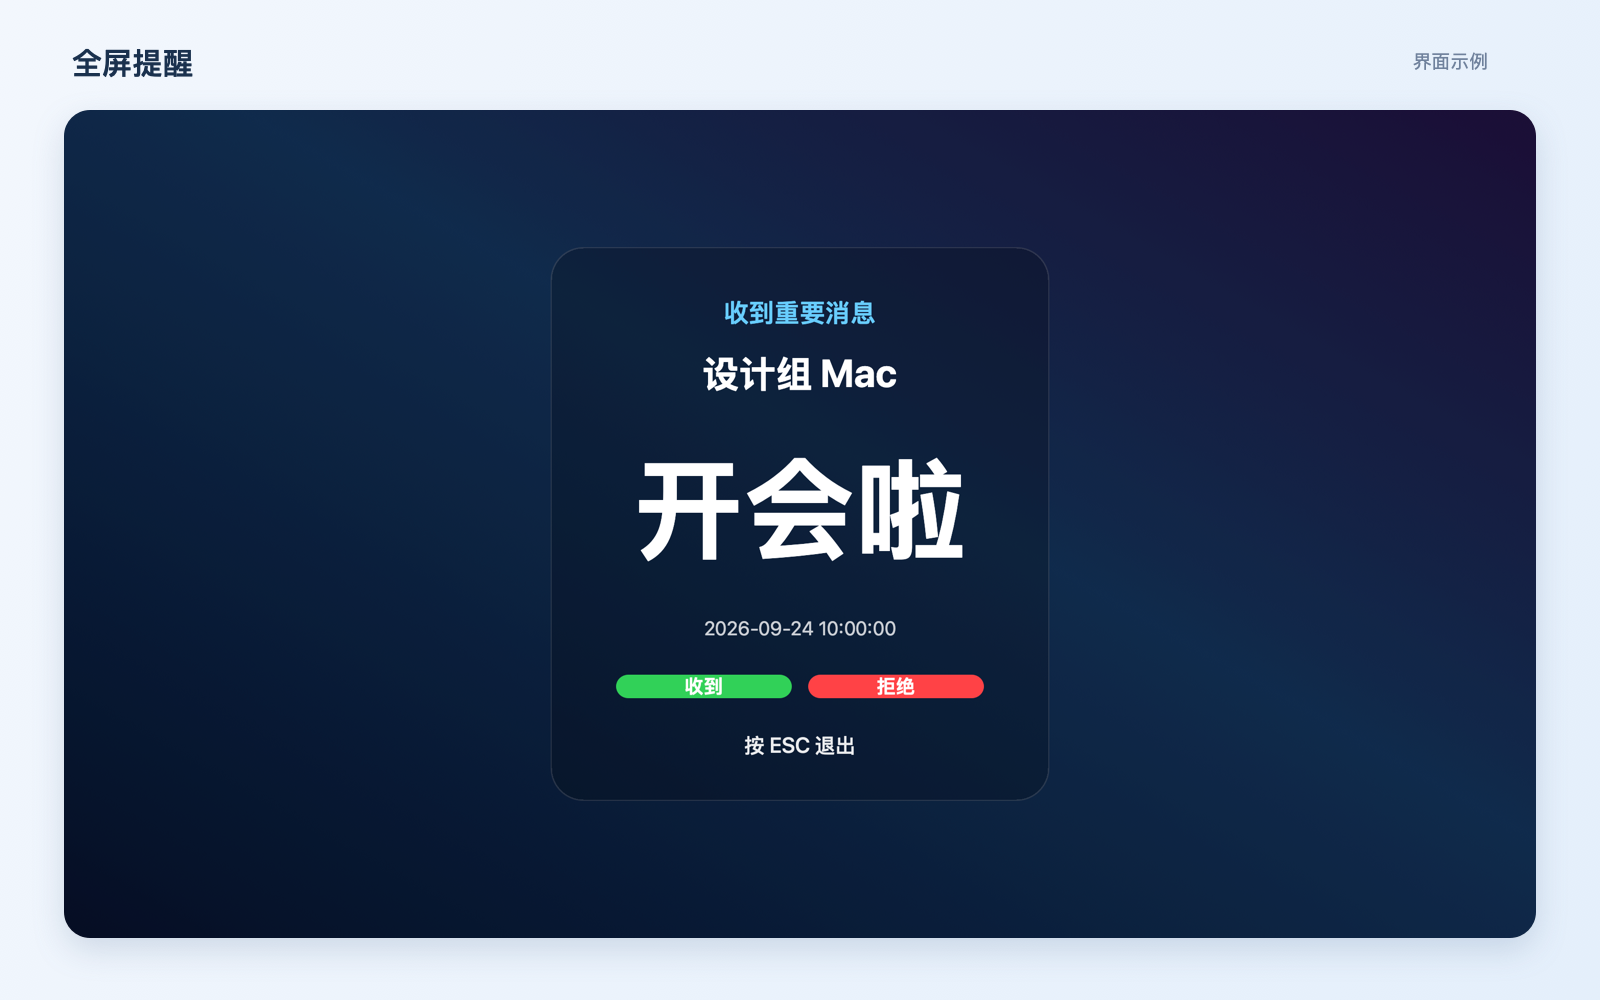
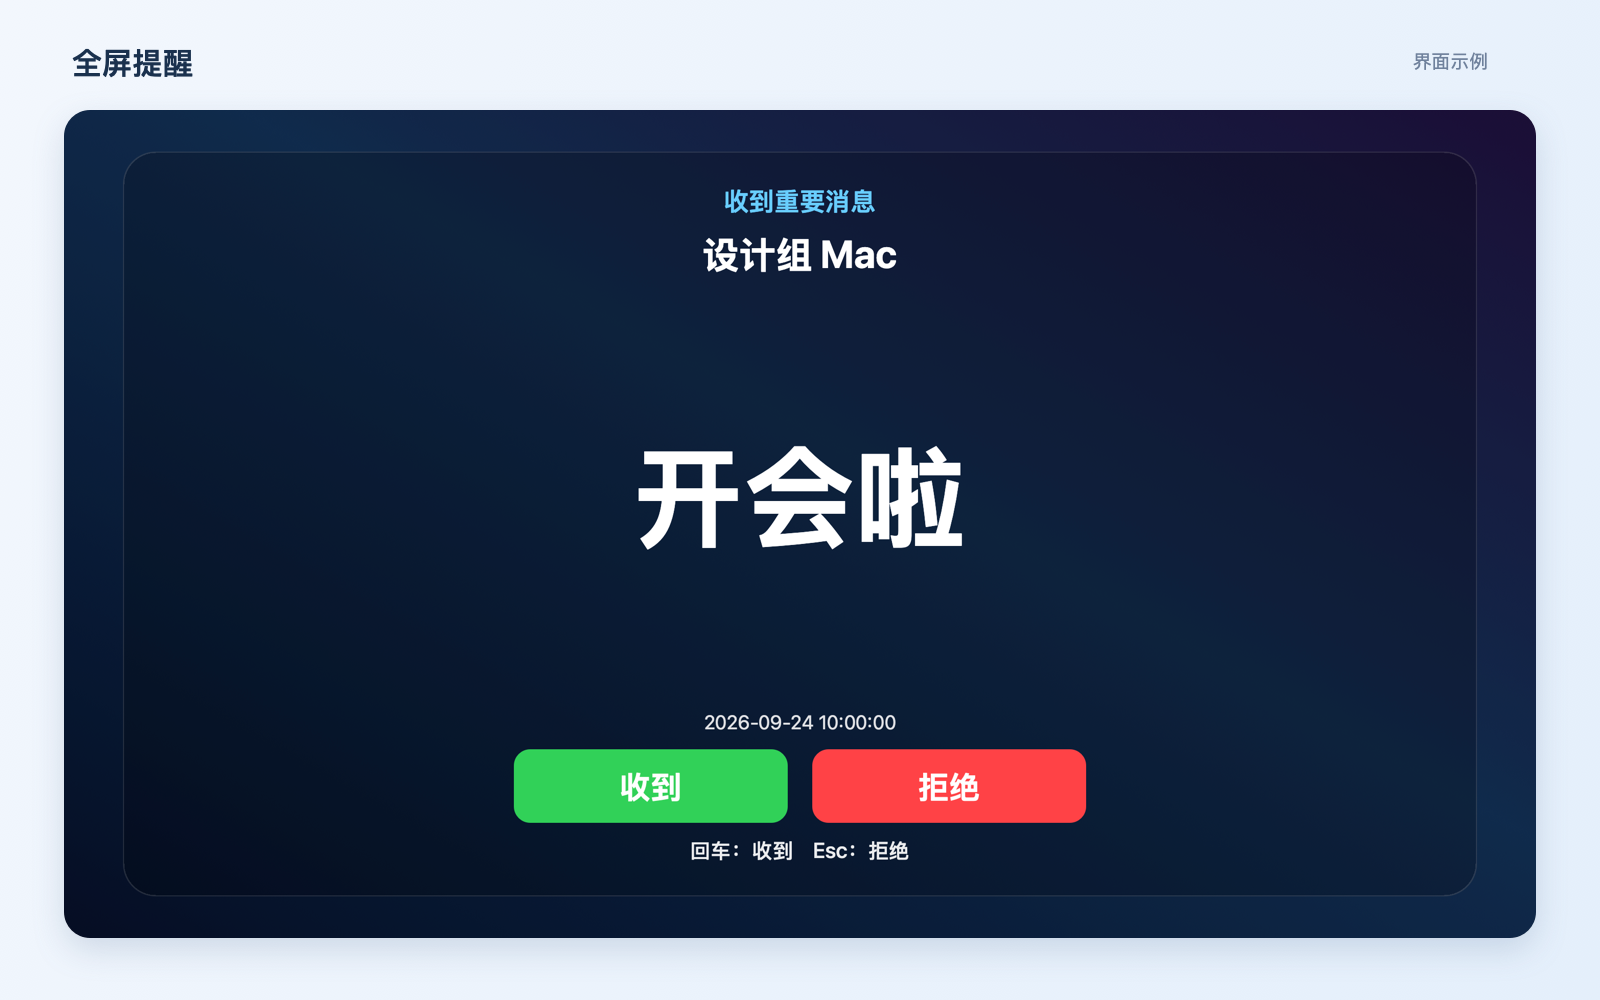
Enlarge fullscreen alerts and map Return/Escape to responses

Changed region(s): [[0.3125, 0.62, 0.6875, 0.868], [0.375, 0.434, 0.625, 0.558], [0.4375, 0.186, 0.5625, 0.403]]

diff --git a/Sources/FullScreenAlert.swift b/Sources/FullScreenAlert.swift
@@ -42,13 +42,22 @@ private final class AlertBackgroundView: NSView {
 }
 
 private final class AlertWindow: NSWindow {
-    var onEscape: (() -> Void)?
+    var onResponse: ((Bool) -> Void)?
     override var canBecomeKey: Bool { true }
     override var canBecomeMain: Bool { true }
-    override func cancelOperation(_ sender: Any?) { onEscape?() }
+    override func cancelOperation(_ sender: Any?) { onResponse?(false) }
+    private func handleResponseKey(_ event: NSEvent) -> Bool {
+        guard event.modifierFlags.intersection([.command, .control, .option, .shift]).isEmpty,
+              [36, 76, 53].contains(event.keyCode) else { return false }
+        // Holding a key must not process another message after this one closes.
+        if !event.isARepeat { onResponse?(event.keyCode != 53) }
+        return true
+    }
+    override func performKeyEquivalent(with event: NSEvent) -> Bool {
+        handleResponseKey(event) || super.performKeyEquivalent(with: event)
+    }
     override func keyDown(with event: NSEvent) {
-        if event.keyCode == 53 { onEscape?() }
-        else { super.keyDown(with: event) }
+        if !handleResponseKey(event) { super.keyDown(with: event) }
     }
 }
 
@@ -63,7 +72,7 @@ private final class ResponseButton: NSButton {
         self.action = action
         isBordered = false
         focusRingType = .none
-        font = .systemFont(ofSize: 19, weight: .bold)
+        font = .systemFont(ofSize: 32, weight: .bold)
         attributedTitle = NSAttributedString(
             string: title,
             attributes: [
@@ -78,7 +87,7 @@ private final class ResponseButton: NSButton {
     override func draw(_ dirtyRect: NSRect) {
         let color = isHighlighted ? fillColor.blended(withFraction: 0.18, of: .black) ?? fillColor : fillColor
         color.setFill()
-        NSBezierPath(roundedRect: bounds, xRadius: 12, yRadius: 12).fill()
+        NSBezierPath(roundedRect: bounds, xRadius: 16, yRadius: 16).fill()
 
         let textSize = attributedTitle.size()
         attributedTitle.draw(at: NSPoint(
@@ -93,26 +102,23 @@ final class FullScreenAlertController: NSWindowController {
     private var backgrounds: [AlertBackgroundView] = []
     private var messagePanels: [NSView] = []
     private let responseHandler: (Bool) -> Void
-    private let dismissHandler: (() -> Void)?
     private var hasFinished = false
 
-    init?(message: WireMessage, responseHandler: @escaping (Bool) -> Void,
-          dismissHandler: (() -> Void)? = nil) {
+    init?(message: WireMessage, responseHandler: @escaping (Bool) -> Void) {
         precondition(Thread.isMainThread)
         let screens = NSScreen.screens
         guard let firstScreen = screens.first else { return nil }
         let primaryScreen = NSScreen.main ?? firstScreen
         self.responseHandler = responseHandler
-        self.dismissHandler = dismissHandler
         let primaryWindow = Self.makeWindow(for: primaryScreen)
         super.init(window: primaryWindow)
 
         screenWindows = [primaryWindow]
-        primaryWindow.onEscape = { [weak self] in self?.dismiss() }
+        primaryWindow.onResponse = { [weak self] in self?.finish(response: $0) }
         configure(primaryWindow, message: message)
         for screen in screens where screen !== primaryScreen {
             let extraWindow = Self.makeWindow(for: screen)
-            extraWindow.onEscape = { [weak self] in self?.dismiss() }
+            extraWindow.onResponse = { [weak self] in self?.finish(response: $0) }
             screenWindows.append(extraWindow)
             configure(extraWindow, message: message)
         }
@@ -133,6 +139,11 @@ final class FullScreenAlertController: NSWindowController {
     }
 
     private func configure(_ window: NSWindow, message: WireMessage) {
+        let panelSize = NSSize(width: window.frame.width * 0.92, height: window.frame.height * 0.90)
+        let horizontalPadding = min(56, max(24, window.frame.width * 0.035))
+        let verticalPadding = min(40, max(24, window.frame.height * 0.04))
+        let spacing = min(22, max(12, window.frame.height * 0.018))
+        let textWidth = panelSize.width - 2 * horizontalPadding
         let content = AlertBackgroundView()
         window.contentView = content
         backgrounds.append(content)
@@ -160,12 +171,13 @@ final class FullScreenAlertController: NSWindowController {
         sender.font = .systemFont(ofSize: 38, weight: .bold)
         sender.textColor = .white
         sender.alignment = .center
+        sender.lineBreakMode = .byTruncatingTail
 
         let body = NSTextField(wrappingLabelWithString: message.text)
-        body.font = .systemFont(ofSize: Self.messageFontSize(for: message.text, in: window.frame.size), weight: .bold)
         body.textColor = .white
         body.alignment = .center
         body.maximumNumberOfLines = 0
+        body.preferredMaxLayoutWidth = textWidth
         body.lineBreakMode = .byWordWrapping
         body.wantsLayer = true
         body.layer?.shadowColor = NSColor.systemBlue.cgColor
@@ -177,42 +189,60 @@ final class FullScreenAlertController: NSWindowController {
         formatter.dateFormat = "yyyy-MM-dd HH:mm:ss"
         let time = NSTextField(labelWithString: formatter.string(from: message.sentAt))
         time.font = .systemFont(ofSize: 19)
-        time.textColor = .secondaryLabelColor
+        time.textColor = NSColor.white.withAlphaComponent(0.65)
         time.alignment = .center
 
-        let hint = NSTextField(labelWithString: "按 ESC 退出")
+        let hint = NSTextField(labelWithString: "回车：收到    Esc：拒绝")
         hint.font = .systemFont(ofSize: 21, weight: .medium)
         hint.textColor = NSColor.white.withAlphaComponent(0.72)
         hint.alignment = .center
 
         let accepted = ResponseButton(title: "收到", color: .systemGreen, target: self, action: #selector(acceptMessage))
         let rejected = ResponseButton(title: "拒绝", color: .systemRed, target: self, action: #selector(rejectMessage))
+        accepted.keyEquivalent = "\r"
+        accepted.keyEquivalentModifierMask = []
+        rejected.keyEquivalent = "\u{1b}"
+        rejected.keyEquivalentModifierMask = []
         let responseRow = NSStackView(views: [accepted, rejected])
         responseRow.orientation = .horizontal
         responseRow.distribution = .fillEqually
-        responseRow.spacing = 16
-        responseRow.widthAnchor.constraint(equalToConstant: 360).isActive = true
-        responseRow.heightAnchor.constraint(equalToConstant: 46).isActive = true
+        responseRow.spacing = 24
+        responseRow.widthAnchor.constraint(equalToConstant: min(560, textWidth)).isActive = true
+        responseRow.heightAnchor.constraint(equalToConstant: 72).isActive = true
+        accepted.heightAnchor.constraint(equalTo: responseRow.heightAnchor).isActive = true
+        rejected.heightAnchor.constraint(equalTo: responseRow.heightAnchor).isActive = true
 
-        let stack = NSStackView(views: [badge, sender, body, time, responseRow, hint])
+        let fixedHeight = [badge, sender, time, hint].reduce(CGFloat.zero) { $0 + $1.intrinsicContentSize.height }
+        let messageHeight = max(1, panelSize.height - 2 * verticalPadding - 5 * spacing - 72 - fixedHeight)
+        body.font = .systemFont(ofSize: Self.fittedMessageFontSize(for: message.text, screenSize: window.frame.size,
+                                                                available: NSSize(width: textWidth, height: messageHeight)), weight: .bold)
+        let messageArea = NSView()
+        body.translatesAutoresizingMaskIntoConstraints = false
+        messageArea.addSubview(body)
+        NSLayoutConstraint.activate([
+            body.centerXAnchor.constraint(equalTo: messageArea.centerXAnchor),
+            body.centerYAnchor.constraint(equalTo: messageArea.centerYAnchor),
+            body.widthAnchor.constraint(equalTo: messageArea.widthAnchor),
+            body.heightAnchor.constraint(lessThanOrEqualTo: messageArea.heightAnchor)
+        ])
+        let stack = NSStackView(views: [badge, sender, messageArea, time, responseRow, hint])
         stack.orientation = .vertical
         stack.alignment = .centerX
-        stack.spacing = 22
+        stack.spacing = spacing
         stack.translatesAutoresizingMaskIntoConstraints = false
-        stack.setCustomSpacing(40, after: sender)
-        stack.setCustomSpacing(42, after: body)
         panel.addSubview(stack)
 
         NSLayoutConstraint.activate([
             panel.centerXAnchor.constraint(equalTo: content.centerXAnchor),
             panel.centerYAnchor.constraint(equalTo: content.centerYAnchor),
-            panel.widthAnchor.constraint(lessThanOrEqualTo: content.widthAnchor, multiplier: 0.88),
-            panel.heightAnchor.constraint(lessThanOrEqualTo: content.heightAnchor, multiplier: 0.82),
-            stack.leadingAnchor.constraint(equalTo: panel.leadingAnchor, constant: 64),
-            stack.trailingAnchor.constraint(equalTo: panel.trailingAnchor, constant: -64),
-            stack.topAnchor.constraint(equalTo: panel.topAnchor, constant: 48),
-            stack.bottomAnchor.constraint(equalTo: panel.bottomAnchor, constant: -42),
-            body.widthAnchor.constraint(lessThanOrEqualTo: content.widthAnchor, multiplier: 0.78)
+            panel.widthAnchor.constraint(equalTo: content.widthAnchor, multiplier: 0.92),
+            panel.heightAnchor.constraint(equalTo: content.heightAnchor, multiplier: 0.90),
+            stack.leadingAnchor.constraint(equalTo: panel.leadingAnchor, constant: horizontalPadding),
+            stack.trailingAnchor.constraint(equalTo: panel.trailingAnchor, constant: -horizontalPadding),
+            stack.topAnchor.constraint(equalTo: panel.topAnchor, constant: verticalPadding),
+            stack.bottomAnchor.constraint(equalTo: panel.bottomAnchor, constant: -verticalPadding),
+            messageArea.widthAnchor.constraint(equalTo: stack.widthAnchor),
+            sender.widthAnchor.constraint(equalTo: stack.widthAnchor)
         ])
     }
 
@@ -235,6 +265,21 @@ final class FullScreenAlertController: NSWindowController {
         default: base = 58
         }
         return max(52, min(156, base * max(0.9, scale)))
+    }
+
+    private static func fittedMessageFontSize(for text: String, screenSize: NSSize, available: NSSize) -> CGFloat {
+        let paragraph = NSMutableParagraphStyle()
+        paragraph.lineBreakMode = .byWordWrapping
+        var size = messageFontSize(for: text, in: screenSize)
+        while size > 16 {
+            let bounds = (text as NSString).boundingRect(
+                with: NSSize(width: max(1, available.width - 8), height: .greatestFiniteMagnitude),
+                options: [.usesLineFragmentOrigin, .usesFontLeading],
+                attributes: [.font: NSFont.systemFont(ofSize: size, weight: .bold), .paragraphStyle: paragraph])
+            if ceil(bounds.height) + 6 <= available.height { break }
+            size -= 1
+        }
+        return size
     }
 
     /// Basic window visibility only; it cannot prove that a person saw it.
@@ -268,13 +313,6 @@ final class FullScreenAlertController: NSWindowController {
         }
         window?.makeKey()
         return isPresented
-    }
-
-    @objc private func dismiss() {
-        guard !hasFinished else { return }
-        hasFinished = true
-        closeAllWindows()
-        dismissHandler?()
     }
 
     /// Session lock/sleep does not acknowledge or dismiss an unread message.

diff --git a/Tests/PresentationAvailability/main.swift b/Tests/PresentationAvailability/main.swift
@@ -31,31 +31,47 @@ availability.stop()
 
 let message = WireMessage(id: UUID(), sender: "测试设备", text: "测试消息", sentAt: Date(),
                           kind: "alert", senderInstanceID: "test", relatedMessageID: nil)
-var responses: [Bool] = []
-var dismissals = 0
-if let alert = FullScreenAlertController(message: message, responseHandler: { responses.append($0) },
-                                        dismissHandler: { dismissals += 1 }) {
-    expect(!alert.isPresented, "Constructing a controller must not present it")
-    alert.perform(NSSelectorFromString("acceptMessage"))
-    alert.perform(NSSelectorFromString("rejectMessage"))
-    alert.perform(NSSelectorFromString("dismiss"))
-    expect(responses == [true], "A response must be delivered only once")
-    expect(dismissals == 0, "A response must not also invoke the Escape callback")
-}
-if let alert = FullScreenAlertController(message: message, responseHandler: { responses.append($0) },
-                                        dismissHandler: { dismissals += 1 }) {
-    alert.perform(NSSelectorFromString("dismiss"))
-    alert.perform(NSSelectorFromString("dismiss"))
-    alert.perform(NSSelectorFromString("acceptMessage"))
-    expect(dismissals == 1 && responses == [true], "Escape must mark read once without responding")
-}
-if let alert = FullScreenAlertController(message: message, responseHandler: { responses.append($0) },
-                                        dismissHandler: { dismissals += 1 }) {
-    alert.suspend()
-    alert.perform(NSSelectorFromString("dismiss"))
-    alert.perform(NSSelectorFromString("acceptMessage"))
-    expect(!alert.present(), "Suspended controllers must not present stale windows again")
-    expect(dismissals == 1 && responses == [true], "Suspension must retain the unread message without any response")
-}
 
-print("展示条件：锁屏、非活动会话、屏幕/系统休眠、无屏幕组合均通过；响应、ESC、挂起回调一次性验证通过（未展示窗口或锁屏）")
+func key(_ code: UInt16, repeating: Bool = false) -> NSEvent {
+    NSEvent.keyEvent(with: .keyDown, location: .zero, modifierFlags: [], timestamp: 0,
+                    windowNumber: 0, context: nil, characters: code == 53 ? "\u{1b}" : "\r",
+                    charactersIgnoringModifiers: code == 53 ? "\u{1b}" : "\r",
+                    isARepeat: repeating, keyCode: code)!
+}
+for (code, expected) in [(UInt16(36), true), (UInt16(76), true), (UInt16(53), false)] {
+    var responses: [Bool] = []
+    let alert = FullScreenAlertController(message: message, responseHandler: { responses.append($0) })!
+    let window = alert.window!
+    expect(!alert.isPresented, "Construction must not present a window")
+    expect(window.performKeyEquivalent(with: key(code, repeating: true)), "Repeated response keys must be consumed")
+    expect(responses.isEmpty, "Key repeat must not respond")
+    expect(window.performKeyEquivalent(with: key(code)), "Response key must be handled")
+    window.keyDown(with: key(code))
+    window.cancelOperation(nil)
+    expect(responses == [expected], "Return/Enter/Escape must respond once with the correct result")
+    expect(!alert.present(), "A handled alert must not reappear")
+}
+for accepted in [true, false] {
+    var responses: [Bool] = []
+    let alert = FullScreenAlertController(message: message, responseHandler: { responses.append($0) })!
+    alert.perform(NSSelectorFromString(accepted ? "acceptMessage" : "rejectMessage"))
+    alert.window?.cancelOperation(nil)
+    expect(responses == [accepted], "Buttons must use the same exactly-once response path")
+}
+do {
+    var responses: [Bool] = []
+    let alert = FullScreenAlertController(message: message, responseHandler: { responses.append($0) })!
+    let window = alert.window!
+    window.cancelOperation(nil)
+    expect(responses == [false], "Cancel operation must reject, not silently dismiss")
+}
+do {
+    var responses: [Bool] = []
+    let alert = FullScreenAlertController(message: message, responseHandler: { responses.append($0) })!
+    let window = alert.window!
+    alert.suspend()
+    window.cancelOperation(nil)
+    window.keyDown(with: key(36))
+    expect(!alert.present() && responses.isEmpty, "Lock/sleep suspension must not accept or reject")
+}
+print("PASS: presentation gates; Return/Enter accepts; Escape rejects; repeated keys ignored; responses exactly once; suspension sends no response")

diff --git a/Sources/AppDelegate.swift b/Sources/AppDelegate.swift
@@ -1380,8 +1380,6 @@ final class AppDelegate: NSObject, NSApplicationDelegate, NSTextFieldDelegate, N
         guard presentationAvailability.canPresent,
               let alert = FullScreenAlertController(message: message, responseHandler: { [weak self] accepted in
                   self?.finishPendingAlert(message, accepted: accepted)
-              }, dismissHandler: { [weak self] in
-                  self?.finishPendingAlert(message, accepted: nil)
               }) else { return }
         activeAlert = alert
         activeAlertID = message.id
@@ -1393,14 +1391,13 @@ final class AppDelegate: NSObject, NSApplicationDelegate, NSTextFieldDelegate, N
         }
     }
 
-    private func finishPendingAlert(_ message: WireMessage, accepted: Bool?) {
+    private func finishPendingAlert(_ message: WireMessage, accepted: Bool) {
         guard pendingStore.contains(id: message.id) else { return }
         pendingStore.remove(id: message.id)
         if activeAlertID == message.id { activeAlert = nil; activeAlertID = nil }
-        historyStore.update(id: message.id, status: accepted.map { $0 ? "已点击收到" : "已拒绝" } ?? "已查看（ESC 关闭）")
+        historyStore.update(id: message.id, status: accepted ? "已收到" : "已拒绝")
         refreshUnreadIndicators()
         setStatus(pendingStore.alertMessages.isEmpty ? "全屏消息已处理" : "还有 \(pendingStore.alertMessages.count) 条全屏消息待查看")
-        guard let accepted else { return }
         messenger.respond(to: message, accepted: accepted) { [weak self] result in
             if case .failure(let error) = result {
                 self?.setStatus("处理结果返回失败：\(error.localizedDescription)", success: false)

diff --git a/Tests/InboxState/TestBoundaries.swift b/Tests/InboxState/TestBoundaries.swift
@@ -34,15 +34,12 @@ final class FullScreenAlertController {
     static var canCreate = true
     static var presentationSucceeds = true
     private let responseHandler: (Bool) -> Void
-    private let dismissHandler: (() -> Void)?
     private var finished = false
     private(set) var isPresented = false
 
-    init?(message: WireMessage, responseHandler: @escaping (Bool) -> Void,
-          dismissHandler: (() -> Void)? = nil) {
+    init?(message: WireMessage, responseHandler: @escaping (Bool) -> Void) {
         guard Self.canCreate else { return nil }
         self.responseHandler = responseHandler
-        self.dismissHandler = dismissHandler
         Self.creationCount += 1
     }
     @discardableResult
@@ -62,7 +59,7 @@ final class FullScreenAlertController {
         guard !finished else { return }
         finished = true
         isPresented = false
-        dismissHandler?()
+        responseHandler(false)
     }
 }
 
@@ -73,4 +70,10 @@ final class InboxReadableWindow: NSWindow {
     override var isKeyWindow: Bool { simulatedReadable }
     override var isVisible: Bool { simulatedReadable }
     override var occlusionState: NSWindow.OcclusionState { simulatedReadable ? [.visible] : [] }
+}
+
+var inboxTestResponses: [(UUID, Bool)] = []
+func inboxTestRespond(to message: WireMessage, accepted: Bool, completion: @escaping (Result<Void, Error>) -> Void) {
+    inboxTestResponses.append((message.id, accepted))
+    completion(.success(()))
 }

diff --git a/Tests/InboxState/AppDelegateFixture.swift b/Tests/InboxState/AppDelegateFixture.swift
@@ -96,7 +96,11 @@ extension AppDelegate {
         assertCount(2, "Two pending alerts")
         guard let secondController = activeAlert else { fatalError("The new alert should be presented") }
         secondController.simulateEscape()
-        assertCount(1, "ESC clears one alert")
+        assertCount(1, "ESC rejects one alert")
+        inboxExpect(inboxTestResponses.count == 1 && inboxTestResponses[0].0 == secondAlert.id && !inboxTestResponses[0].1,
+                    "ESC must return a rejection for this message")
+        inboxExpect(historyStore.entries.first { $0.id == secondAlert.id }?.status == "已拒绝",
+                    "ESC rejection must be recorded in history")
         inboxExpect(pendingStore.contains(id: firstAlert.id) && !pendingStore.contains(id: secondAlert.id),
                     "ESC must remove only its own alert")
         viewNextPendingAlert()
@@ -106,6 +110,8 @@ extension AppDelegate {
         reopened.simulateEscape()
         reopened.simulateEscape()
         assertCount(0, "Repeated ESC")
+        inboxExpect(inboxTestResponses.count == 2 && inboxTestResponses[1].0 == firstAlert.id && !inboxTestResponses[1].1,
+                    "Repeated ESC must not duplicate the rejection")
 
         FullScreenAlertController.presentationSucceeds = false
         let failedPresentation = message("alert", "窗口未成功显示")

diff --git a/scripts/render-readme-previews.py b/scripts/render-readme-previews.py
@@ -221,7 +221,8 @@ with tempfile.TemporaryDirectory(prefix="fullscreen-readme-") as temporary:
             start = source.index("    func applicationDidFinishLaunching(")
             end = source.index("    func applicationWillTerminate(", start)
             source = source[:start] + MENU_FIXTURE + "\n" + source[end:]
-            source = source.replace("(statusItem.button?.window?.screen ?? NSScreen.main)?.visibleFrame.height ?? 800", "CGFloat(1000)")
+            source = source.replace("let screen = statusItem.button?.window?.screen ?? NSScreen.main", "let screen = NSScreen.main")
+            source = source.replace("(screen?.visibleFrame.height ?? 800)", "CGFloat(1000)")
         if path.name == "FullScreenAlert.swift":
             source = source.replace("let screens = NSScreen.screens", "let screens = Array(NSScreen.screens.prefix(1))")
             source = source.replace("contentRect: screen.frame", "contentRect: NSRect(x: 0, y: 0, width: 1440, height: 810)")

diff --git a/README.md b/README.md
@@ -8,7 +8,7 @@
 
 - **后台运行**：常驻菜单栏，不占 Dock，支持开机自启。
 - **设备互联**：自动发现同一局域网的 Mac，支持多选发送、设备重命名和移除。
-- **全屏提醒**：所有显示器同时展示大字消息，可点击“收到／拒绝”反馈，或按 ESC 关闭。
+- **全屏提醒**：所有显示器同时展示大字消息，放大显示区域和“收到／拒绝”按钮；回车确认收到，Esc 拒绝，并向发送者返回处理结果。
 - **快捷发送**：菜单按屏幕空间完整展开，无需上下滚动；提供预设消息、自定义输入和收藏，显示发送结果，失败自动重试。
 - **临时聊天**：在菜单栏或客户端内直接聊天，支持防窥，不弹全屏。
 - **未读角标**：显示未读数量，已收到的待处理消息在锁屏、重启后仍保留。
@@ -93,4 +93,4 @@ curl -fsSL "https://github.com/hbiszxm/mac-fullscreen-message/releases/latest/do
 构建产物位于 `build/`：
 
 - `全屏消息.app`
-- `全屏消息-Apple芯片-v3.17.2.pkg`
+- `全屏消息-Apple芯片-v3.17.3.pkg`
